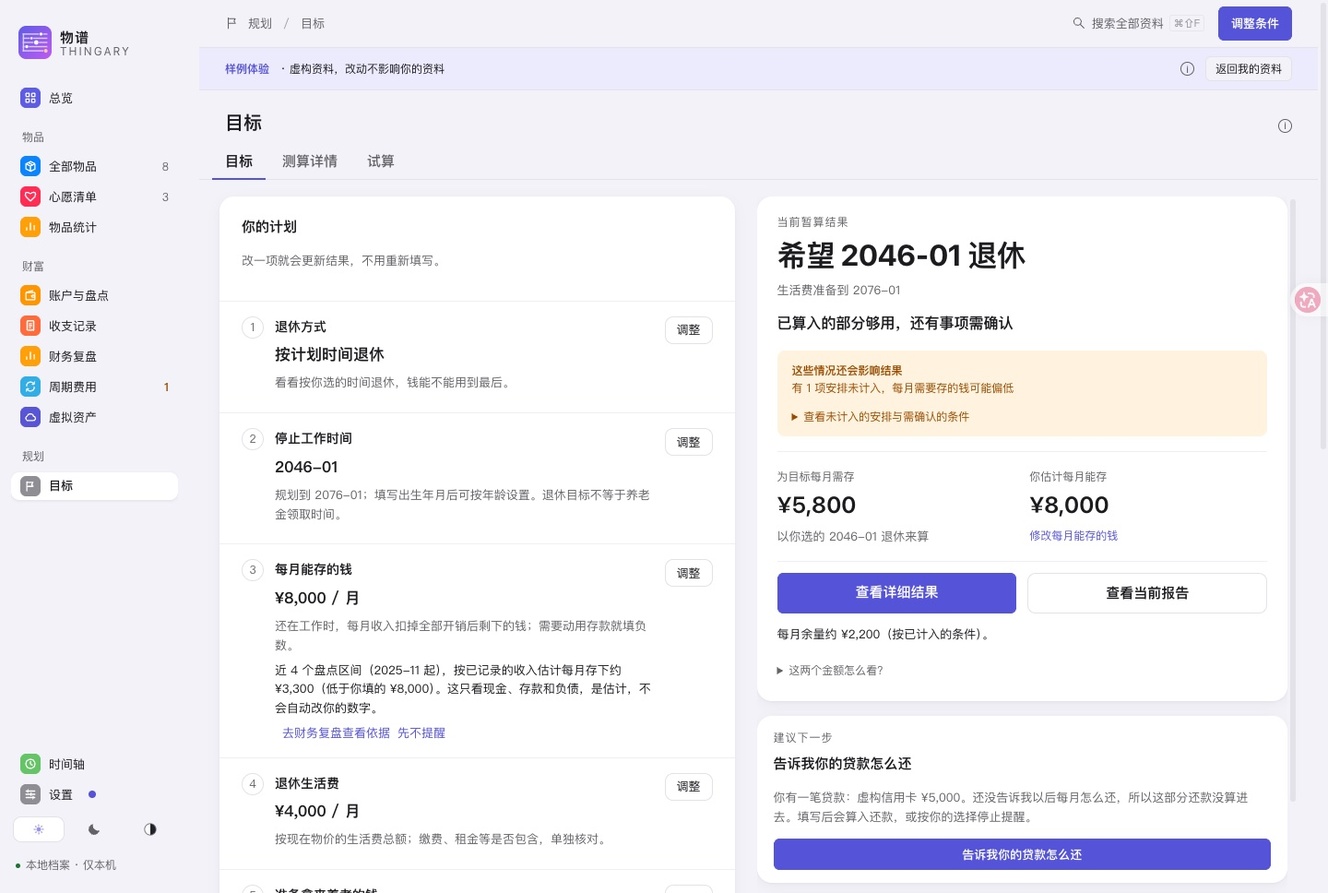
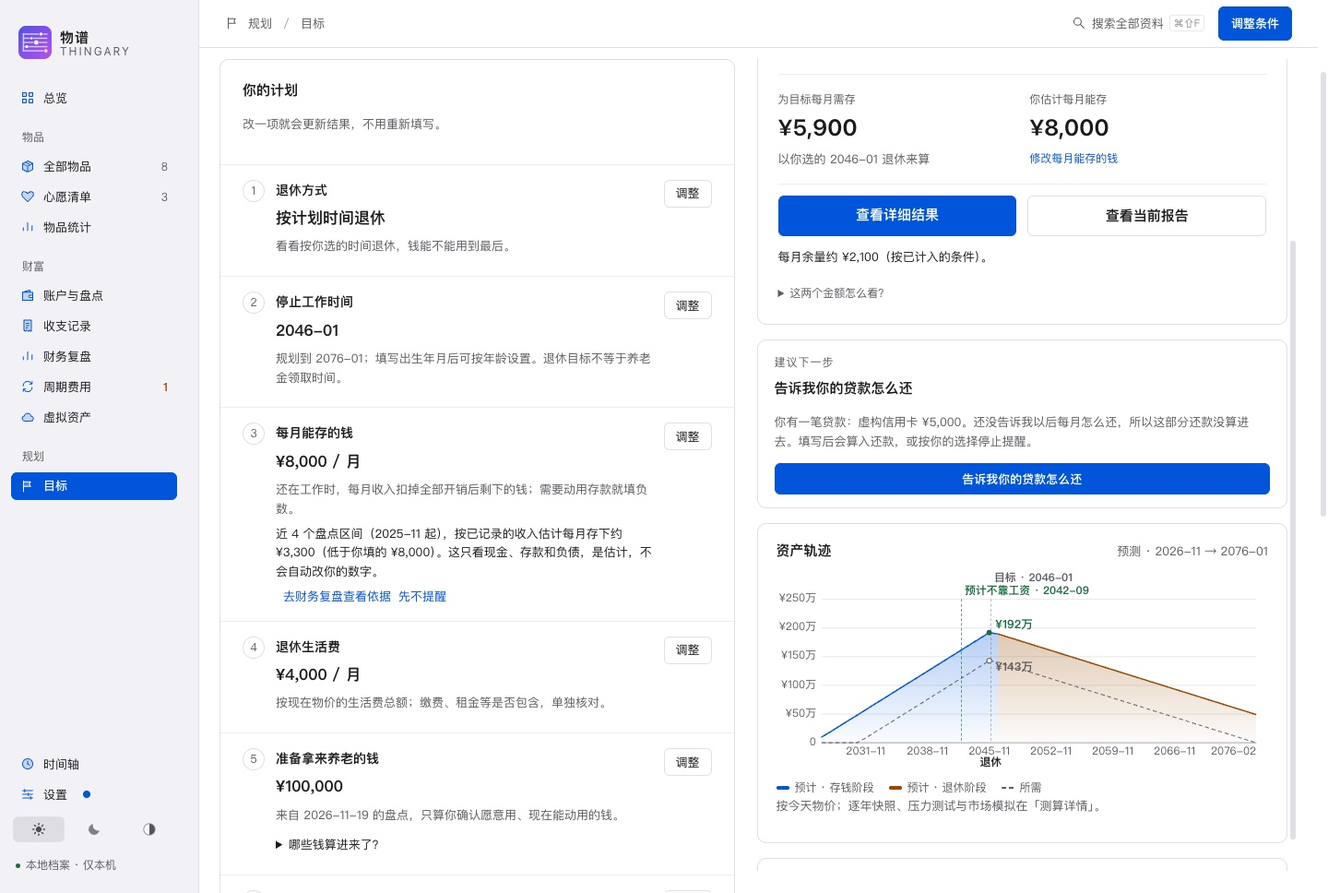
docs: refresh 0.1.1 planning media and product messaging
Use planning screenshots captured from the v0.1.1 tag and rebuild the README slideshow with a dated asset name. Match Chinese and English descriptions to the scrolled view, put belongings records ahead of optional savings goals, and clarify Android update instructions.

diff --git a/site/index.html b/site/index.html
@@ -92,61 +92,73 @@
       <section id="features" class="features wrap" aria-label="功能 / Features">
 <div class="zh" lang="zh-CN">
   <div class="section-heading">
-    <div><p class="section-label">从拥有，到打算</p><h2>看清现在，<br>再想下一步。</h2></div>
-    <p>物品留下记录，盘点留下事实。<br>未来的计划，从自己的家底出发。</p>
+    <div><p class="section-label">从拥有，到打算</p><h2>先留住拥有的，<br>再看清家底。</h2></div>
+    <p>物品档案和账户盘点都可以单独使用。<br>未来的计划，从自己的家底出发。</p>
   </div>
   <article class="feature">
+    <div class="feature-copy"><p class="feature-tag">物品档案</p><h3>用心拥有的，<br>值得留个档。</h3>
+      <p>照片、购买成本、维修与保障，放在同一份物品档案里。可以先只整理物品，不必建立账户或规划；价格和日期不知道就留空。</p><div class="feature-note">买入、维修、售出，历史都能留下。<br>还能查看日均持有成本。</div>
+    </div>
+    <figure class="feature-art"><a href="../docs/images/assets-light.jpg" aria-label="查看物品档案浏览器预览大图"><img src="../docs/images/assets-light.jpg" width="1440" height="968" loading="lazy" alt="物品档案浏览器预览：虚构物品的购买信息、状态与持有成本"></a><figcaption>照片、购买信息、保障与日均成本。<small>浏览器预览 · 虚构资料 · 非原生</small></figcaption></figure>
+  </article>
+  <article class="feature reverse">
     <div class="feature-copy"><p class="feature-tag">账户与盘点</p><h3>分散的余额，<br>完整的家底。</h3>
       <p>银行卡、余额宝、券商、公积金，还有房贷，也可以记外币账户和按份额持有的投资。把资产与欠款放在一起，定期核对余额，看清净资产如何变化。</p><div class="feature-note">每月或每季盘点一次。<br>不必把生活变成一笔笔流水。</div>
     </div>
     <figure class="feature-art"><a href="../docs/images/wealth-light.jpg" aria-label="查看账户与盘点浏览器预览大图"><img src="../docs/images/wealth-light.jpg" width="1440" height="968" loading="lazy" alt="账户与盘点浏览器预览：资产负债汇总与净资产趋势，虚构资料"></a><figcaption>同一份记录，连起这一次与上一次盘点。<small>浏览器预览 · 虚构资料 · 非原生</small></figcaption></figure>
   </article>
-  <article class="feature reverse">
+  <article class="feature">
     <div class="feature-copy"><p class="feature-tag">目标与规划</p><h3>想过的生活，<br>有可以核对的计划。</h3>
       <p>需要存多少，什么时候能不靠工资，歇一阵能撑多久。用自己的余额、投入和假设，慢慢算清楚。</p><div class="questions"><details><summary>每月要存多少？</summary><p>填入目标时间与生活开销，反算每月需要的投入；复用已有余额，不用再抄一张表。</p></details>
 <details><summary>什么时候能不靠工资？</summary><p>查看财务独立时间的估算，按需展开依据与假设。条件没填齐会明确说明，不把未知当作零。</p></details>
 <details><summary>歇一阵能撑多久？</summary><p>临时比较空窗、开销或换工作的影响。试算不改账户余额，结论也不是收益承诺。</p></details>
 </div>
     </div>
-    <figure class="feature-art"><a href="../docs/images/planning-goals.jpg" aria-label="查看目标与规划浏览器预览大图"><img src="../docs/images/planning-goals.jpg" width="1440" height="968" loading="lazy" alt="目标页浏览器预览：左侧计算条件，右侧结论，虚构资料"></a><figcaption>先看结论，再按需展开依据与假设。<small>浏览器预览 · 虚构资料 · 非原生</small></figcaption></figure>
+    <figure class="feature-art"><a href="../docs/images/planning-goals.jpg" aria-label="查看目标与规划浏览器预览大图"><img src="../docs/images/planning-goals.jpg" width="1440" height="968" loading="lazy" alt="目标页浏览器预览：左侧计算条件，右侧每月可存金额、建议下一步与资产轨迹，虚构资料"></a><figcaption>先看结论和资产轨迹，再按需展开依据与假设。<small>浏览器预览 · 虚构资料 · 非原生</small></figcaption></figure>
   </article>
   <div class="collection"><article>
-<figure class="feature-art"><a href="../docs/images/assets-light.jpg" aria-label="查看物品档案浏览器预览大图"><img src="../docs/images/assets-light.jpg" width="1440" height="968" loading="lazy" alt="物品档案浏览器预览：虚构物品的购买信息、状态与持有成本"></a><figcaption>浏览器预览 · 虚构资料 · 非原生</figcaption></figure>
-<h3>用心拥有的，值得留个档。</h3><p>照片、购买成本、维修与保障，放在同一份物品档案里。可以独立使用，也可以按需开启。</p>
-</article>
-<article>
 <figure class="feature-art"><a href="../docs/images/annual-review.jpg" aria-label="查看区间回顾浏览器预览大图"><img src="../docs/images/annual-review.jpg" width="1440" height="968" loading="lazy" alt="区间回顾浏览器预览：近 1 年的盘点变化、收入和重要支出，虚构资料"></a><figcaption>浏览器预览 · 虚构资料 · 非原生</figcaption></figure>
 <h3>偶尔回头，看看走了多远。</h3><p>近 1 年、今年以来、全部或自选日期，回顾积累与支出。净资产变化和投资收益，始终分开看。</p>
+</article>
+<article>
+<figure class="feature-art"><a href="../docs/images/savings-goals.jpg" aria-label="查看存钱目标浏览器预览大图"><img src="../docs/images/savings-goals.jpg" width="1440" height="968" loading="lazy" alt="存钱目标浏览器预览：目标进度与关联账户，虚构资料"></a><figcaption>浏览器预览 · 虚构资料 · 非原生</figcaption></figure>
+<h3>想攒一笔钱时，再设目标。</h3><p>应急金、旅行、换车……需要时再设一个存钱目标。只跟踪进度，不冻结资金，也不影响物品档案和家底盘点。</p>
 </article>
 </div>
 </div>
 <div class="en" lang="en">
   <div class="section-heading">
-    <div><p class="section-label">From what you own to what comes next</p><h2>See where you are.<br>Then plan ahead.</h2></div>
-    <p>Keep a record of your belongings and balances.<br>Build your plans on your own starting point.</p>
+    <div><p class="section-label">From what you own to what comes next</p><h2>Keep what you have.<br>See where you are.</h2></div>
+    <p>Belongings and accounts both work on their own.<br>Build your plans on your own starting point.</p>
   </div>
   <article class="feature">
+    <div class="feature-copy"><p class="feature-tag">Belongings</p><h3>A place for the things<br>you keep.</h3>
+      <p>Photos, purchase costs, repairs, and warranties, together. Start with belongings alone, without creating accounts or a plan; leave unknown prices and dates empty.</p><div class="feature-note">Purchase, repair, and sale history stays.<br>See the average daily ownership cost.</div>
+    </div>
+    <figure class="feature-art"><a href="../docs/images/assets-light.jpg" aria-label="View the full belongings browser preview"><img src="../docs/images/assets-light.jpg" width="1440" height="968" loading="lazy" alt="belongings browser preview with fictional items and ownership costs"></a><figcaption>Photos, purchase details, warranties, and daily cost.<small>browser preview · Fictional data · Not native</small></figcaption></figure>
+  </article>
+  <article class="feature reverse">
     <div class="feature-copy"><p class="feature-tag">Account check-ins</p><h3>Separate accounts.<br>One clear picture.</h3>
       <p>Bring balances and debts together, including bank accounts, investments, housing provident funds, and loans; foreign-currency accounts and share-based holdings are supported. Check in periodically to follow your net worth.</p><div class="feature-note">Once a month or quarter.<br>No daily transaction logging required.</div>
     </div>
     <figure class="feature-art"><a href="../docs/images/wealth-light.jpg" aria-label="View the full account check-in browser preview"><img src="../docs/images/wealth-light.jpg" width="1440" height="968" loading="lazy" alt="browser preview of account check-ins with assets, debts, and a net-worth trend; fictional data"></a><figcaption>A record of where you are, and how it has changed.<small>browser preview · Fictional data · Not native</small></figcaption></figure>
   </article>
-  <article class="feature reverse">
+  <article class="feature">
     <div class="feature-copy"><p class="feature-tag">Goals and planning</p><h3>Your life plans.<br>Numbers you can check.</h3>
       <p>How much to save, when you could leave your paycheck, or how long you could take off. Explore each question with your own balances and assumptions.</p><div class="questions"><details><summary>How much should I save each month?</summary><p>Estimate the monthly contribution needed for your target date and living costs, using the balances you already recorded.</p></details>
 <details><summary>When could I leave my paycheck?</summary><p>Explore a possible date, then inspect its assumptions. Missing information stays visible; it is never treated as zero.</p></details>
 <details><summary>How long could I take off?</summary><p>Compare a work break, different expenses, or a job change without changing account balances. Estimates are not promised returns.</p></details>
 </div>
     </div>
-    <figure class="feature-art"><a href="../docs/images/planning-goals.jpg" aria-label="View the full planning browser preview"><img src="../docs/images/planning-goals.jpg" width="1440" height="968" loading="lazy" alt="planning browser preview: conditions on the left and conclusion on the right; fictional data"></a><figcaption>See the conclusion, then inspect its assumptions.<small>browser preview · Fictional data · Not native</small></figcaption></figure>
+    <figure class="feature-art"><a href="../docs/images/planning-goals.jpg" aria-label="View the full planning browser preview"><img src="../docs/images/planning-goals.jpg" width="1440" height="968" loading="lazy" alt="planning browser preview: conditions on the left, monthly savings amounts, next step, and asset trajectory on the right; fictional data"></a><figcaption>See the conclusion and asset trajectory, then inspect the assumptions.<small>browser preview · Fictional data · Not native</small></figcaption></figure>
   </article>
   <div class="collection"><article>
-<figure class="feature-art"><a href="../docs/images/assets-light.jpg" aria-label="View the full belongings browser preview"><img src="../docs/images/assets-light.jpg" width="1440" height="968" loading="lazy" alt="belongings browser preview with fictional items and ownership costs"></a><figcaption>browser preview · Fictional data · Not native</figcaption></figure>
-<h3>A place for the things you keep.</h3><p>Photos, purchase costs, repairs, and warranties, together. Use belongings records independently, or enable them when you need them.</p>
-</article>
-<article>
 <figure class="feature-art"><a href="../docs/images/annual-review.jpg" aria-label="View the full period review browser preview"><img src="../docs/images/annual-review.jpg" width="1440" height="968" loading="lazy" alt="period review browser preview with balance changes, income, and major expenses; fictional data"></a><figcaption>browser preview · Fictional data · Not native</figcaption></figure>
 <h3>Look back. See what has changed.</h3><p>Review the last year, year to date, all time, or custom dates. Net-worth changes and investment profit stay distinct.</p>
+</article>
+<article>
+<figure class="feature-art"><a href="../docs/images/savings-goals.jpg" aria-label="View the full savings goal browser preview"><img src="../docs/images/savings-goals.jpg" width="1440" height="968" loading="lazy" alt="savings goal browser preview with progress and linked accounts; fictional data"></a><figcaption>browser preview · Fictional data · Not native</figcaption></figure>
+<h3>Set a savings goal when you want one.</h3><p>Emergency fund, travel, a car: add a goal when it helps. It tracks progress only, does not freeze money, and does not affect belongings or account check-ins.</p>
 </article>
 </div>
 </div>

diff --git a/docs/images/README.md b/docs/images/README.md
@@ -2,7 +2,7 @@
 
 ## README 高清预览与安卓截图（最近更新 2026-11-19）
 
-`walkthrough.gif` 改用 `readme-desktop/` 中的六张无损 PNG，顺序为 `overview.png`、`accounts.png`、`planning.png`、`savings.png`、`review.png`、`belongings.png`。来源为 0.1.0 源码的 `visual-preview.html?demo=1`，采集基线 `796a2d90f9cd9b096df2ba29d08871551cdf41d1`，Ego Lite 浏览器，简体中文、柔和卡片浅色主题、1280×960 逻辑视口、2× 捕获（**2560×1920**）。仅隐藏浏览器翻译扩展悬浮按钮与开发预览角标，保留应用的样例提示、未知资料和待确认条件；存钱目标帧滚动到该区域，物品帧选中 MacBook Pro。界面文字、金额与布局未拼改。README 点击动图可打开无损总览图。它是浏览器界面截图轮播，不是原生连续操作录像。
+`walkthrough-20261119.gif` 是 README 当前引用的 GIF，字节与 `walkthrough.gif` 相同；使用带日期的文件名是为了避开 GitHub 对同名图片的旧缓存。它改用 `readme-desktop/` 中的六张无损 PNG，顺序为 `overview.png`、`accounts.png`、`planning.png`、`savings.png`、`review.png`、`belongings.png`。桌面界面来自 `visual-preview.html?demo=1`，Ego Lite 浏览器，简体中文、柔和卡片浅色主题、1280×960 逻辑视口、2× 捕获（**2560×1920**）；`planning.png` 于 2026-11-19 按 `v0.1.1` 标签 `4cb58d22` 重拍，右侧滚动到每月可存金额、建议下一步与资产轨迹（该版本在 1280×960 下首屏放不下退休结论与轨迹同屏），其余五帧沿用 0.1.0 基线 `796a2d90f9cd9b096df2ba29d08871551cdf41d1`。仅隐藏浏览器翻译扩展悬浮按钮与开发预览角标，保留应用的样例提示、未知资料和待确认条件；存钱目标帧滚动到该区域，物品帧选中 MacBook Pro。界面文字、金额与布局未拼改。README 点击动图可打开无损总览图。它是浏览器界面截图轮播，不是原生连续操作录像。
 
 `android/overview.png`、`android/accounts.png`、`android/planning.png` 为小米 Android 16 真机（1200×2670，系统密度 520）的原生截图，通过 `adb exec-out screencap -p` 直接取得。应用是独立身份 `local.thingary.preview`，`versionName=0.1.1`、`versionCode=1001`，2026-11-19 由当前源码重新构建并覆盖安装；系统切为浅色主题，只展示完整虚构样例，依次采集总览、财富概览与规划目标页。截图保留样例状态、状态栏与系统时间，未拼改界面文字或金额。未打开正式身份或正式资料库。
 
@@ -36,7 +36,7 @@
 | `planning-fi-goals.jpg` | 未在用户文档或官网引用 | 未验证 | 0.0.6 历史原生图；保留作历史证据。 |
 | `planning-fi-trajectory-full.jpg` | `docs/USER_GUIDE.md` | 未验证 | 0.0.6 历史原生图；未按 0.1.0 原生重拍。 |
 | `planning-fi-trajectory.jpg` | 未在用户文档或官网引用 | 未验证 | 0.0.6 历史原生图；保留作历史证据。 |
-| `planning-goals.jpg` | `docs/USER_GUIDE.md`、`site/index.html` | 是（浏览器预览） | 由当前 0.1.0 源码捕获；左右布局与当前 CHANGELOG 描述一致。 |
+| `planning-goals.jpg` | `docs/USER_GUIDE.md`、`site/index.html` | 是（浏览器预览） | 2026-11-19 按 `v0.1.1`（`4cb58d22`）重拍；右侧滚动到每月可存金额、建议下一步与资产轨迹，轨迹最右年份完整显示。 |
 | `planning-market-full.jpg` | `docs/USER_GUIDE.md` | 未验证 | 0.0.6 历史原生图；未按 0.1.0 原生重拍。 |
 | `planning-market.jpg` | 未在用户文档或官网引用 | 未验证 | 0.0.6 历史原生图；保留作历史证据。 |
 | `planning-matrix-full.jpg` | `docs/USER_GUIDE.md` | 未验证 | 0.0.6 历史原生图；未按 0.1.0 原生重拍。 |
@@ -62,7 +62,7 @@
 | `thingary-film-poster.jpg` | `site/index.html` | 不适用 | 介绍视频封面，来自浏览器界面预览和合成画面，不是原生截图。 |
 | `thingary-film.mp4` | `site/index.html` | 不适用 | Remotion 合成的浏览器界面预览视频，不是原生操作录像。 |
 | `update-check-006.jpg` | 未在用户文档或官网引用 | 否（历史） | 画面明确为 0.0.6 更新检查结果；保留作历史证据，不代表当前版本。 |
-| `walkthrough.gif` | `README.md`、`README.en.md` | 是（浏览器预览） | 已由 2026-11-04 的无损 PNG 重建；2560×1920、六帧、21 秒。 |
+| `walkthrough-20261119.gif` | `README.md`、`README.en.md` | 是（浏览器预览） | 已由 2026-11-19 的无损 PNG 重建；2560×1920、六帧、21 秒；第 3 帧目标页滚动到每月可存金额、建议下一步与资产轨迹。`walkthrough.gif` 保留为同字节旧文件名。 |
 | `wealth-light.jpg` | `site/index.html` | 是（浏览器预览） | 由当前 0.1.0 源码捕获；主按钮为「更新今天的余额」。 |
 
 ## 介绍视频（2026-10-19）
@@ -160,9 +160,9 @@ planning-monthly.jpg、planning-fi-goals.jpg、planning-trajectory.jpg、plannin
 
 ### GIF 尺寸与重建
 
-README 当前 GIF 使用本页 2026-11-04 登记的 `readme-desktop/*.png` 六帧无损图。上文历史条目只记录当时的文件组合与尺寸，不代表当前 GIF。
+README 当前 GIF 使用本页 2026-11-04 登记的 `readme-desktop/*.png` 六帧无损图；2026-11-19 重拍目标页后写入 `walkthrough-20261119.gif`，并保留同字节的 `walkthrough.gif`。上文历史条目只记录当时的文件组合与尺寸，不代表当前 GIF。
 
-用 `node scripts/build-walkthrough.mjs` 重建（需本机 `ffmpeg`、`ffprobe`）。脚本要求每张输入严格为 **2560×1920**，不缩小或拉伸画面；各帧独立生成调色板，关闭有序抖动，保留文字边缘并减少纯色区域噪点。输出为六帧、每帧 3.5 秒、21 秒无限循环，当前约 1.3 MB。输入尺寸或输出帧数、尺寸、时长不符，或文件超过 8 MiB 时停止生成；验证通过后才替换目标 GIF。无损 PNG 随仓库保留，便于原尺寸查看与重建；这次重建不替换已公开安装包。
+用 `node scripts/build-walkthrough.mjs` 重建（需本机 `ffmpeg`、`ffprobe`）。脚本要求每张输入严格为 **2560×1920**，不缩小或拉伸画面；各帧独立生成调色板，关闭有序抖动，保留文字边缘并减少纯色区域噪点。输出为六帧、每帧 3.5 秒、21 秒无限循环，当前约 1.3 MB。输入尺寸或输出帧数、尺寸、时长不符，或文件超过 8 MiB 时停止生成；验证通过后才替换目标 GIF。重建后把 `walkthrough.gif` 复制为带日期的 `walkthrough-20261119.gif`，并同步 README 引用，以避开旧图片缓存。无损 PNG 随仓库保留，便于原尺寸查看与重建；这次重建不替换已公开安装包。
 
 ## 仓库社交预览图
 

diff --git a/README.en.md b/README.en.md
@@ -10,22 +10,24 @@
 
 <p align="center"><a href="https://github.com/CoderJackZhu/Thingary/releases/tag/v0.1.1"><strong>Download 0.1.1</strong></a> · <a href="https://thingary.jackzhu.top/">Website</a> · <a href="https://thingary.jackzhu.top/quickstart/">Quick start</a> · <a href="https://gitee.com/CoderJackZhu/thingary/releases">Gitee mirror</a> · <a href="https://github.com/CoderJackZhu/Thingary/issues/new?template=usage_feedback.yml">Feedback</a></p>
 
-[![High-resolution Chinese desktop preview: overview, accounts, planning, savings goals, period review, and belongings](docs/images/walkthrough.gif)](docs/images/readme-desktop/overview.png)
+[![High-resolution Chinese desktop preview: overview, accounts, planning, savings goals, period review, and belongings](docs/images/walkthrough-20261119.gif)](docs/images/readme-desktop/overview.png)
 
 Chinese desktop interface with fictional sample data, in a 21-second browser-preview slideshow. Click the animation for a lossless screenshot.
 
+Frame 3 is the goals page, scrolled to the monthly savings amounts, the next step, and the asset trajectory.
+
 ▶ [53-second film](https://thingary.jackzhu.top/#film) (Chinese captions): monthly check-ins, net-worth changes, belongings, and how saving a little more moves your retirement date.
 
-Money tends to be spread across bank accounts, brokerages, funds, a housing fund, and a mortgage. Thingary puts accounts, belongings, and plans in one place: record balances and debts once a month or quarter, see how your net worth moves, and answer three questions: **how much should I save each month, when could I stop relying on a salary, and how long could I take a break?** It runs locally, needs no account, and does not ask you to log every transaction.
+Money tends to be spread across bank accounts, brokerages, funds, a housing fund, and a mortgage. Thingary puts belongings, accounts, and plans in one place: record balances and debts once a month or quarter, see how your net worth moves, and answer three questions: **how much should I save each month, when could I stop relying on a salary, and how long could I take a break?** It runs locally, needs no account, and does not ask you to log every transaction.
 
 ## What it does
 
 | Feature | Use it to |
 |---|---|
+| **Belongings** | Keep prices, photos, repairs, warranties, and daily ownership costs, with history retained after sale or retirement. Use it on its own without creating accounts or a plan |
 | **Accounts and check-ins** | Record assets, debts, and a mortgage; check balances monthly or quarterly. Complete check-ins build a net-worth trend. Unchanged balances are carried forward for you to confirm. |
 | **Goals and planning** | Estimate required monthly savings and a possible financial-independence date; compare a large purchase, a break from work, or a job change. |
-| **Review and plans** | Record income and major expenses, review a period, track savings goals, and plan recurring costs and large payments. Unknown values stay unknown. |
-| **Belongings (optional)** | Keep prices, photos, repairs, warranties, and daily ownership costs, with history retained after sale or retirement. |
+| **Review and records** | Record income and major expenses, review a period, plan recurring costs and large payments, and set a savings goal when you want one. Unknown values stay unknown. |
 | **Data protection** | Make full and automatic backups, restore recently deleted records, and optionally encrypt backups with a recovery key you keep. |
 
 Built for occasional check-ins. No daily transaction ledger, market-data feed, trading, or automatic payments.

diff --git a/README.md b/README.md
@@ -10,22 +10,24 @@
 
 <p align="center"><a href="https://github.com/CoderJackZhu/Thingary/releases/tag/v0.1.1"><strong>下载 0.1.1</strong></a> · <a href="https://thingary.jackzhu.top/">产品主页</a> · <a href="https://thingary.jackzhu.top/quickstart/">快速上手</a> · <a href="https://gitee.com/CoderJackZhu/thingary/releases">国内镜像</a> · <a href="https://github.com/CoderJackZhu/Thingary/issues/new?template=usage_feedback.yml">使用反馈</a></p>
 
-[![中文桌面界面的高清预览：总览、账户盘点、目标、存钱目标、区间回顾与物品](docs/images/walkthrough.gif)](docs/images/readme-desktop/overview.png)
+[![中文桌面界面的高清预览：总览、账户盘点、目标、存钱目标、区间回顾与物品](docs/images/walkthrough-20261119.gif)](docs/images/readme-desktop/overview.png)
 
 桌面端中文界面，21 秒循环，使用虚构样例（浏览器预览）。点击动图可查看无损原图。
 
+第 3 帧为目标页，右侧显示每月可存金额、建议下一步与资产轨迹。
+
 ▶ [53 秒介绍视频](https://thingary.jackzhu.top/#film)：每月盘点、净资产变化、物品档案，以及每月多存一点、退休时间怎么跟着变。
 
-钱分散在银行卡、余额宝、券商、基金平台、公积金和房贷里，很难看清全貌。物谱把账户、物品和计划放在一处：每月或每季对照各平台录一次余额和欠款，就能看到净资产变化，并回答三个问题：**每月要存多少、什么时候能不靠工资、歇一阵能撑多久。** 本地使用，无需账号，不需要每天记账。
+钱分散在银行卡、余额宝、券商、基金平台、公积金和房贷里，很难看清全貌。物谱把物品、账户和计划放在一处：每月或每季对照各平台录一次余额和欠款，就能看到净资产变化，并回答三个问题：**每月要存多少、什么时候能不靠工资、歇一阵能撑多久。** 本地使用，无需账号，不需要每天记账。
 
 ## 能做什么
 
 | | |
 |---|---|
+| **物品档案** | 价格、照片、维修与保障，售出或退役后仍保留历史；查看日均持有成本。可以只整理物品，不必先建立账户或规划 |
 | **账户与盘点** | 记录资产、负债和房贷，按月或按季核对余额；完整盘点看净资产趋势，新一次盘点会按上次金额预填，没变的不用动 |
 | **目标与测算** | 反算每月要存多少、估算财务独立时间；比较买一笔大件、休息一段时间或换工作的影响 |
-| **复盘与计划** | 收支记录、区间回顾、存钱目标、周期费用和大额计划；金额未知保持未知，不当作零 |
-| **物品档案（可选）** | 价格、照片、维修与保障，售出或退役后仍保留历史；查看日均持有成本 |
+| **复盘与记录** | 收支记录、区间回顾、周期费用和大额计划；想攒一笔钱时也可设存钱目标。金额未知保持未知，不当作零 |
 | **资料保护** | 完整备份、自动备份、最近删除；备份可用你自己保管的恢复密钥加密 |
 
 它适合低频记录，不提供日常流水记账、行情交易或自动付款。

diff --git a/docs/releases/microsoft-store-listing.md b/docs/releases/microsoft-store-listing.md
@@ -32,11 +32,17 @@
 
 不用每天记流水。每月或每季回来盘点一次，把分散在各处的账户余额、投资和物品收进一处，看见积累的变化。
 
+【物品档案】
+
+- 记录购买价格、日期、渠道和照片，查看每件物品的日均持有成本
+- 售出或退役后仍保留历史
+- 心愿清单帮你想清楚再买
+- 可以先只整理物品，不必建立账户或规划
+
 【盘家底】
 
 - 按账户记录余额，支持存款、投资、外币账户和负债，可按分组整理
 - 每次盘点保留历史；未知的数字保持未知，不会当成零
-- 设置存钱目标，查看进度
 
 【还要上几年班】
 
@@ -45,11 +51,10 @@
 - 可以试算工作变化、临时现金等不同条件
 - 规划支持简单的两人合计；不分别计算两人的社保、医保或养老待遇
 
-【物品档案（可选）】
+【想攒一笔钱时】
 
-- 记录购买价格、日期、渠道和照片，查看每件物品的日均持有成本
-- 售出或退役后仍保留历史
-- 心愿清单帮你想清楚再买
+- 设置存钱目标，查看进度；只跟踪进度，不冻结资金
+- 不设存钱目标，也不影响物品档案、账户盘点和规划
 
 【资料与隐私】
 
@@ -70,11 +75,17 @@ Thingary helps you see what you have and plan for the life you want.
 
 No daily bookkeeping. Come back once a month or once a quarter: record balances across banks, brokerages, funds and other accounts, keep your belongings in one place, and watch the accumulation over time.
 
+[Belongings]
+
+- Record purchase price, date, source and photos; see the average daily cost of each item
+- History is kept after an item is sold or retired
+- A wish list helps you think before buying
+- Start with belongings alone, without creating accounts or a plan
+
 [Net worth]
 
 - Record balances by account, including savings, investments, foreign-currency accounts and debts; group accounts as you like
 - Every check-in keeps its history; unknown amounts stay unknown instead of becoming zero
-- Set savings goals and follow progress
 
 [Time to financial independence]
 
@@ -83,11 +94,10 @@ No daily bookkeeping. Come back once a month or once a quarter: record balances 
 - Try different work, cash and spending conditions
 - Planning supports a simple two-person total; it does not calculate separate social security, health insurance or pension benefits for each person
 
-[Belongings (optional)]
+[Savings goals, when you want one]
 
-- Record purchase price, date, source and photos; see the average daily cost of each item
-- History is kept after an item is sold or retired
-- A wish list helps you think before buying
+- Set a savings goal and follow progress; it tracks progress only and does not freeze money
+- Without a savings goal, belongings, account check-ins and planning still work on their own
 
 [Data and privacy]
 

diff --git a/docs/QUICKSTART.md b/docs/QUICKSTART.md
@@ -1,6 +1,6 @@
 # 快速上手
 
-先完成一件小事：盘一次账户，或给一件物品留档。无需账号，也不用先填完所有设置。
+先完成一件小事：给一件物品留档，或盘一次账户。无需账号，也不用先填完所有设置。
 
 更多操作可按需查阅[使用指南](USER_GUIDE.md)。
 
@@ -21,11 +21,13 @@
 
 ## 2. 完成一件小事
 
-**想看清家底：用「账户与盘点」。** 对照银行、支付宝、券商等平台，录入各账户当天的余额和欠款。明确为零就填 0，不知道就保留未知。完成一次完整盘点后可以看到净资产；以后每月或每季再盘一次即可；新一次盘点会按上次金额预填，没变的账户不用动，变了直接改，核对后统一保存。缺项时先补齐，不把未知当作 0。
-
 **想整理物品：用「全部物品」。** 先记名称和已知的购买信息，照片、日期与保障以后再补。可以只使用物品档案，不必建立账户或规划。
 
+**想看清家底：用「账户与盘点」。** 对照银行、支付宝、券商等平台，录入各账户当天的余额和欠款。明确为零就填 0，不知道就保留未知。完成一次完整盘点后可以看到净资产；以后每月或每季再盘一次即可；新一次盘点会按上次金额预填，没变的账户不用动，变了直接改，核对后统一保存。缺项时先补齐，不把未知当作 0。
+
 **想为以后做计划：用「目标」。** 可以和前两项一起用，不需要一次填完全部信息。
+
+物品档案、账户盘点和目标规划都可以单独使用；存钱目标只是需要时再设的小工具，不影响前两项。
 
 不想看到的功能，到「设置 › 功能模块」按用途或逐项关闭；关闭只隐藏入口，已有资料会保留。同一用途关闭后再选回，该用途的功能会全部开启。
 
@@ -45,7 +47,7 @@
 
 | 我想做什么 | 去哪里看 |
 |---|---|
-| 为一笔钱设目标 | [存钱目标](USER_GUIDE.md#savings-goals)，只跟踪进度，不冻结资金 |
+| 想攒一笔钱时 | [存钱目标](USER_GUIDE.md#savings-goals)，只跟踪进度，不冻结资金，也不影响物品档案和账户盘点 |
 | 算每月要存多少、何时能不靠工资 | [目标与规划](USER_GUIDE.md#planning)，按需填写条件，不是收益承诺 |
 | 看一段时间的变化 | [区间回顾](USER_GUIDE.md#annual-review)，净资产变化不等于投资收益 |
 | 录入外币或投资份额 | [外币账户](USER_GUIDE.md#外币账户) · [持仓录入](USER_GUIDE.md#按持仓记录投资) |
